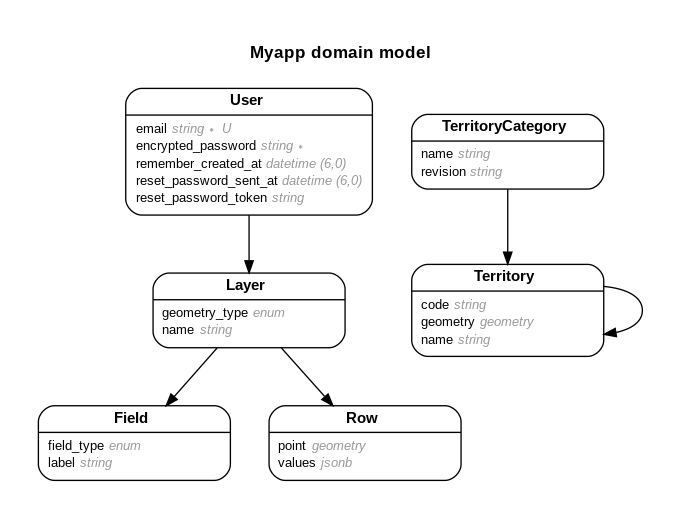
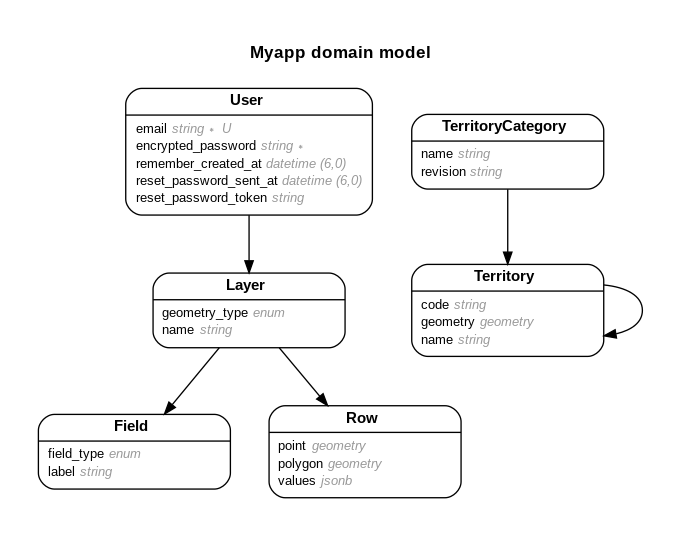
feat(polygon) migration to add a polygon column

diff --git a/db/schema.rb b/db/schema.rb
@@ -10,7 +10,7 @@
 #
 # It's strongly recommended that you check this file into your version control system.
 
-ActiveRecord::Schema[7.0].define(version: 2022_06_16_144101) do
+ActiveRecord::Schema[7.0].define(version: 2022_06_16_163156) do
   # These are extensions that must be enabled in order to support this database
   enable_extension "pg_trgm"
   enable_extension "pgcrypto"
@@ -55,6 +55,7 @@ ActiveRecord::Schema[7.0].define(version: 2022_06_16_144101) do
     t.geometry "point", limit: {:srid=>0, :type=>"st_point"}
     t.datetime "created_at", default: -> { "CURRENT_TIMESTAMP" }, null: false
     t.datetime "updated_at", default: -> { "CURRENT_TIMESTAMP" }, null: false
+    t.geometry "polygon", limit: {:srid=>4326, :type=>"st_polygon"}
     t.index ["layer_id"], name: "index_rows_on_layer_id"
   end
 

diff --git a/app/models/row.rb b/app/models/row.rb
@@ -4,6 +4,7 @@
 #
 #  id         :uuid             not null, primary key
 #  point      :geometry         point, 0
+#  polygon    :geometry         polygon, 4326
 #  values     :jsonb
 #  created_at :datetime         not null
 #  updated_at :datetime         not null

diff --git a/db/migrate/20220616163156_row_can_be_polygon.rb b/db/migrate/20220616163156_row_can_be_polygon.rb
@@ -1,0 +1,7 @@
+class RowCanBePolygon < ActiveRecord::Migration[7.0]
+  def change
+    change_table :rows do |t|
+      t.st_polygon :polygon, srid: 4326
+    end
+  end
+end
